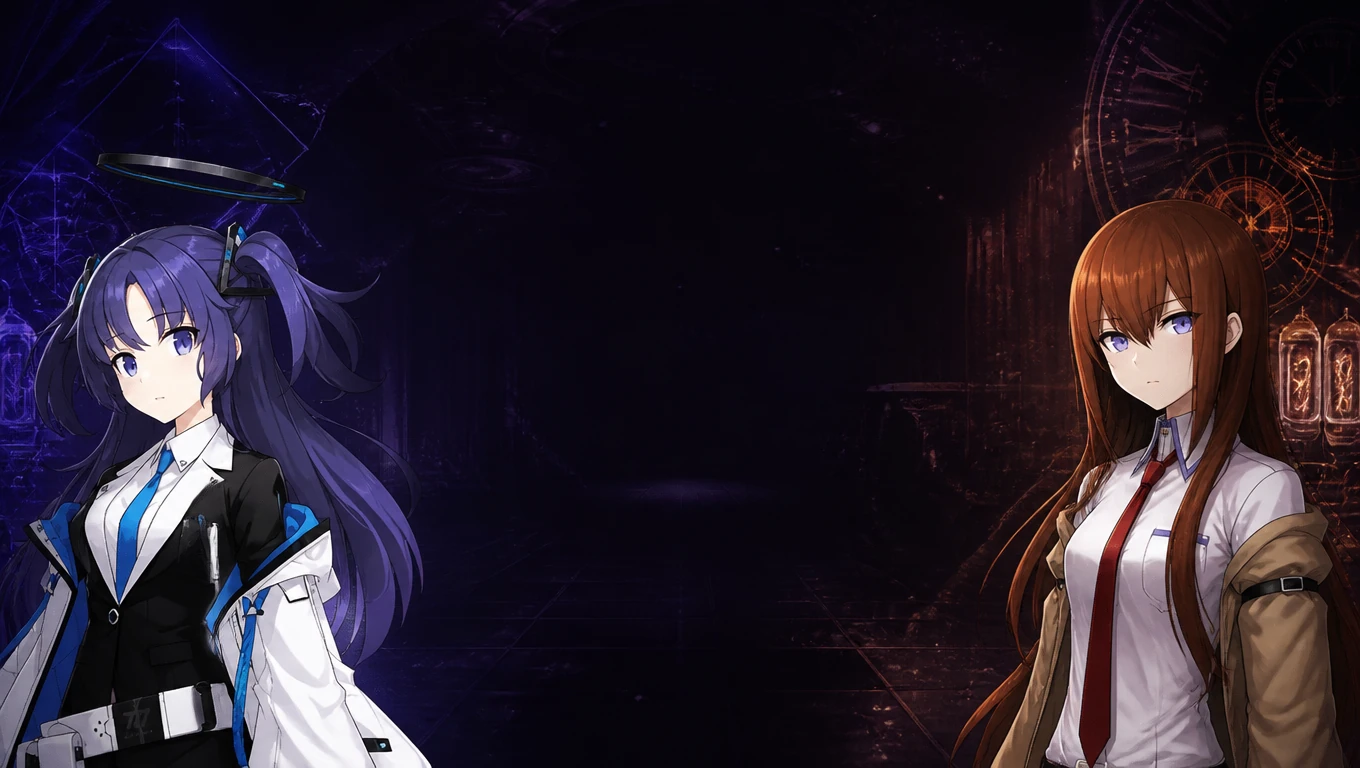
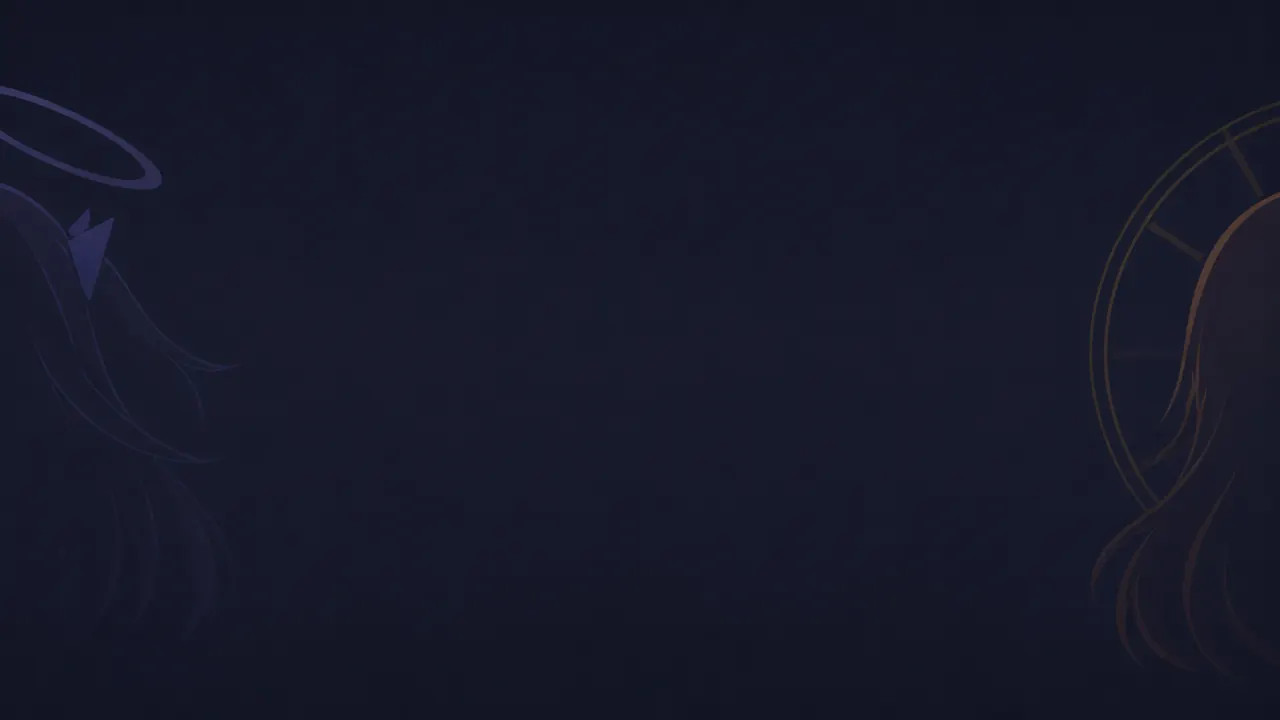
Stabilize lobby filtering and replace wallpaper with minimal color outlines

diff --git a/public/index.html b/public/index.html
@@ -6,8 +6,8 @@
 <meta name="theme-color" content="#0a0f10">
 <title>ArcadeOnline - 童年游戏联机平台</title>
 <link rel="stylesheet" href="/style.css">
-<link rel="stylesheet" href="/theme.css">
-<link rel="preload" as="image" href="/assets/yuuka-kurisu-background.webp">
+<link rel="stylesheet" href="/theme.css?v=outline-20261022">
+<link rel="preload" as="image" href="/assets/yuuka-kurisu-background.webp?v=outline-20261022">
 </head>
 <body class="lobby-page">
 <header class="topbar">
@@ -46,11 +46,11 @@
 
     <div class="library-tools" aria-label="游戏筛选">
       <div class="segmented" id="game-filters" role="group" aria-label="游戏类型">
-        <button type="button" class="active" data-filter="all">全部</button>
-        <button type="button" data-filter="sports">体育竞技</button>
-        <button type="button" data-filter="party">休闲对战</button>
-        <button type="button" data-filter="action">动作射击</button>
-        <button type="button" data-filter="adventure">合作冒险</button>
+        <button type="button" class="active" data-filter="all" aria-pressed="true">全部</button>
+        <button type="button" data-filter="sports" aria-pressed="false">体育竞技</button>
+        <button type="button" data-filter="party" aria-pressed="false">休闲对战</button>
+        <button type="button" data-filter="action" aria-pressed="false">动作射击</button>
+        <button type="button" data-filter="adventure" aria-pressed="false">合作冒险</button>
       </div>
       <label class="compact-field search-field">
         <span>搜索</span>
@@ -68,10 +68,11 @@
       <button type="button" id="recent-game"></button>
     </div>
 
-    <div class="game-grid" id="game-grid" aria-live="polite"></div>
-    <div class="empty-library" id="empty-library" hidden>
-      <strong>没有找到游戏</strong>
-      <span>换个名称或分类再看看。</span>
+    <div class="game-grid" id="game-grid" aria-live="polite">
+      <div class="empty-library" id="empty-library" hidden>
+        <strong>没有找到游戏</strong>
+        <span>换个名称或分类再看看。</span>
+      </div>
     </div>
   </section>
 </main>
@@ -92,6 +93,7 @@
   const filterButtons = Array.from(document.querySelectorAll("#game-filters button"));
   let allGames = [];
   let activeFilter = "all";
+  const gameCards = new Map();
 
   if (arcadeName()) showLobby();
   else nameInput.focus();
@@ -140,11 +142,22 @@
       return categoryMatches && (!query || haystack.includes(query));
     });
     const grid = document.getElementById("game-grid");
-    grid.replaceChildren();
+    // Keep enough space below the current viewport to avoid scroll clamping.
+    const gridTop = grid.getBoundingClientRect().top + window.scrollY;
+    grid.style.minHeight = Math.max(0, window.scrollY + window.innerHeight - gridTop - 48) + "px";
+    const visibleIds = new Set(games.map((game) => game.id));
 
-    for (const game of games) {
+    for (const game of allGames) {
+      const existing = gameCards.get(game.id);
+      if (existing) {
+        existing.hidden = !visibleIds.has(game.id);
+        existing.querySelectorAll("a").forEach((link) => { link.href = gameHref(game); });
+        existing.querySelector(".selected-room").textContent = "房间：" + normalizedRoom(game);
+        continue;
+      }
       const article = make("article", "game-card");
       article.dataset.gameId = game.id;
+      article.hidden = !visibleIds.has(game.id);
 
       const coverLink = make("a", "game-cover");
       coverLink.href = gameHref(game);
@@ -154,6 +167,8 @@
       image.alt = game.title + "游戏画面";
       image.loading = "lazy";
       image.decoding = "async";
+      image.width = 800;
+      image.height = 500;
       coverLink.appendChild(image);
       const coverMeta = make("div", "cover-meta");
       coverMeta.append(make("span", "source-tag", "经典游戏"));
@@ -179,6 +194,7 @@
       body.append(eyebrow, title, description, footer);
       article.append(coverLink, body);
       grid.appendChild(article);
+      gameCards.set(game.id, article);
     }
 
     document.getElementById("empty-library").hidden = games.length > 0;
@@ -231,7 +247,10 @@
   filterButtons.forEach((button) => {
     button.addEventListener("click", () => {
       activeFilter = button.dataset.filter;
-      filterButtons.forEach((item) => item.classList.toggle("active", item === button));
+      filterButtons.forEach((item) => {
+        item.classList.toggle("active", item === button);
+        item.setAttribute("aria-pressed", String(item === button));
+      });
       renderGames();
     });
   });

diff --git a/public/theme.css b/public/theme.css
@@ -1,8 +1,11 @@
+html {
+  scrollbar-gutter: stable;
+}
 body {
   background: #101222;
 }
 body::before {
-  background: linear-gradient(180deg, rgba(9, 12, 24, .12), rgba(9, 12, 24, .35)), url('/assets/yuuka-kurisu-background.webp') center top / cover no-repeat;
+  background: linear-gradient(180deg, rgba(9, 12, 24, .12), rgba(9, 12, 24, .35)), url('/assets/yuuka-kurisu-background.webp?v=outline-20261022') center top / cover no-repeat;
 }
 header.topbar {
   background: rgba(12, 15, 28, .78);
@@ -35,6 +38,8 @@ header.topbar {
   display: flex;
   flex-wrap: wrap;
   gap: 4px;
+  height: auto;
+  min-height: 38px;
   border: 0;
   background: transparent;
 }
@@ -51,6 +56,8 @@ header.topbar {
 .game-grid {
   grid-template-columns: repeat(3, minmax(0, 1fr));
   gap: 22px;
+  align-items: start;
+  overflow-anchor: none;
 }
 .game-card {
   display: flex;
@@ -62,11 +69,15 @@ header.topbar {
   background: rgba(14, 19, 34, .94);
   box-shadow: 0 10px 28px rgba(0, 0, 0, .22);
 }
+.empty-library {
+  grid-column: 1 / -1;
+}
 .game-card:hover {
   border-color: #9b8dc4;
   box-shadow: 0 12px 30px rgba(15, 10, 35, .36);
 }
 .game-cover {
+  flex: 0 0 auto;
   min-height: 0;
   width: 100%;
   aspect-ratio: 16 / 10;

diff --git a/public/authority-room.html b/public/authority-room.html
@@ -7,7 +7,7 @@
   <title>在线联机 - ArcadeOnline</title>
   <link rel="stylesheet" href="/style.css">
   <link rel="stylesheet" href="/authority/style.css">
-  <link rel="stylesheet" href="/theme.css">
+<link rel="stylesheet" href="/theme.css?v=outline-20261022">
   <script src="/arcade.js"></script>
 </head>
 <body class="room-page authority-page">

diff --git a/scripts/prepare-site-assets.py b/scripts/prepare-site-assets.py
@@ -18,9 +18,14 @@ def main():
     parser.add_argument('--background', type=Path, help='Selected generated image')
     parser.add_argument('--prompt', type=Path, help='Exact generation prompt text')
     parser.add_argument('--model', help='Model label displayed by the website')
+    parser.add_argument('--max-width', type=int, default=1280, help='Maximum output width')
+    parser.add_argument('--quality', type=int, default=78, help='WebP quality (1-100)')
+    parser.add_argument('--composition', help='Description of the selected composition')
     args = parser.parse_args()
     if args.background and (not args.prompt or not args.model):
         parser.error('--background requires --prompt and --model')
+    if args.max_width < 1 or not 1 <= args.quality <= 100:
+        parser.error('--max-width must be positive; --quality must be 1-100')
     OUT.mkdir(parents=True, exist_ok=True)
     manifest_path = OUT / 'site-artwork.json'
     manifest = json.loads(manifest_path.read_text(encoding='utf-8')) if manifest_path.exists() else {}
@@ -30,8 +35,12 @@ def main():
         if not prompt:
             raise ValueError('Generation prompt is empty')
         with Image.open(args.background) as source:
-            source.convert('RGB').save(target, 'WEBP', quality=90, method=6)
             dimensions = list(source.size)
+            output = source.convert('RGB')
+            if output.width > args.max_width:
+                output = output.resize((args.max_width, round(output.height * args.max_width / output.width)), Image.Resampling.LANCZOS)
+            output.save(target, 'WEBP', quality=args.quality, method=6)
+            output_dimensions = list(output.size)
         (OUT / 'site-background-prompt.txt').write_text(prompt + '\n', encoding='utf-8')
         manifest['background'] = {
             'path': '/assets/yuuka-kurisu-background.webp',
@@ -41,7 +50,9 @@ def main():
             'promptPath': '/assets/site-background-prompt.txt',
             'sourceImageSha256': digest(args.background),
             'sourceDimensions': dimensions,
-            'composition': 'Yuuka left with black/blue mechanical hair accessories and elliptical halo; Kurisu right with clock/circuit motifs; violet/amber night backdrop and dark central space',
+            'outputDimensions': output_dimensions,
+            'outputBytes': target.stat().st_size,
+            'composition': args.composition or 'Yuuka left with black/blue mechanical hair accessories and elliptical halo; Kurisu right with clock/circuit motifs; violet/amber night backdrop and dark central space',
             'sources': manifest.get('background', {}).get('sources', []),
         }
     if not target.exists() or 'background' not in manifest:

diff --git a/AGENT_HANDOFF_TODO.md b/AGENT_HANDOFF_TODO.md
@@ -1,5 +1,7 @@
 **ArcadeOnline 项目进展与 Agent 交接 TODO**
 
+2026-10-22 最新微调：用户反馈分类切换抖动、背景过于二次元。大厅改为保留卡片 DOM、显隐筛选，滚动条稳定占位，按当前视口保留列表底部空间避免滚动钳制；封面固定比例且禁止 flex 收缩，分类按钮可自然换行。新背景通过既定 Playwright 生图网站生成，仅保留低对比蓝紫/琥珀抽象轮廓，1280×720 WebP 6558 字节。当前背景与提示词以 `public/assets/site-artwork.json` 为准，下方完整人物背景条目属于前一版。四种视口分类切换及空搜索验证通过；准确发布版本仍以部署记录最新条目为准。
+
 当前核对（2026-10-22）：已接续 session `01a15c17-b317-7883-8233-0031ac937214`。用户明确授权完成最新版公网部署、文档更新和 GitHub 推送。网站只提供八款服务器联机游戏，使用原名与实际游戏画面的 WebP 封面；旧房间链接跳转对应服务器版，旧 native/games/libs 执行资源返回 404，发布包不含旧运行内容。准确公网版本以 [部署记录](DEPLOYMENT_STATUS.md) 最新条目为准。
 
 玩法基线：全服务器入口显示角色姓名；`3881-server` 推弹 CD 14 tick、陷阱公开 105 tick（3 秒）后仅拥有者快照可见、头顶武器库存、所有特殊武器统一硬直 7 tick（0.2 秒）。49 tick / 1.4 秒为冰面寿命，不是硬直；结束硬直可以转向离开。僵尸危机3与 Q版泡泡堂2均有四席位。机制与浏览器验证见 `SERVER_AUTHORITY.md` 和 `test:authority:weapons:e2e`。
